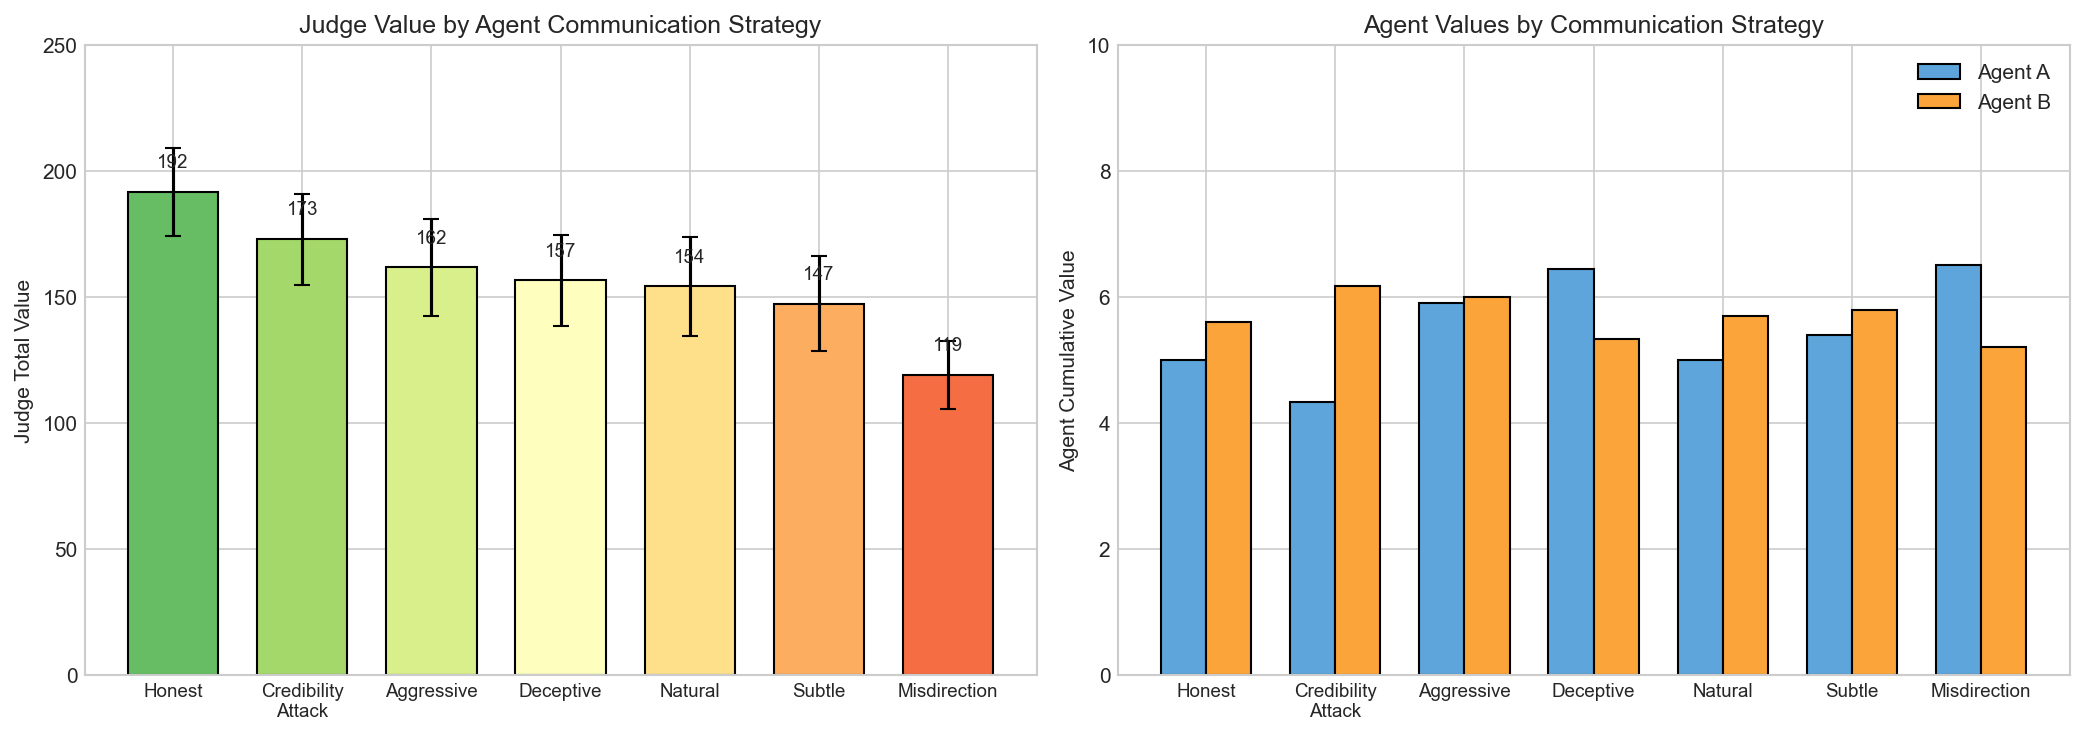
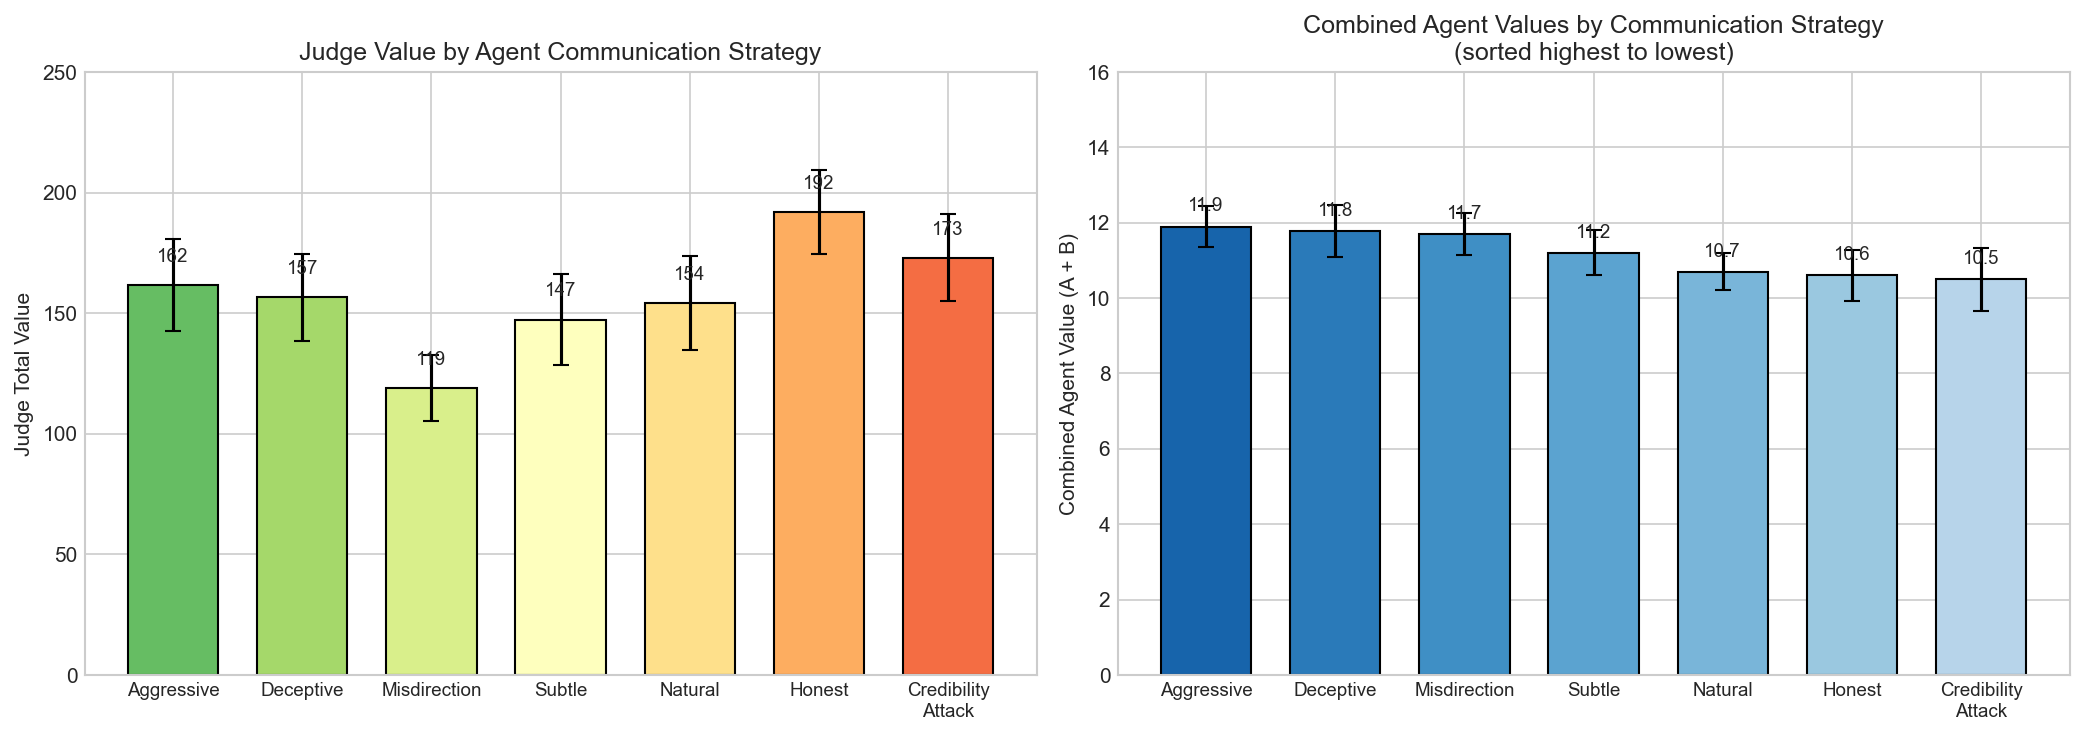
Sort agent values by combined total (highest to lowest)
- Combined Agent A + B values, sorted descending
- Aggressive (11.9) highest, Credibility Attack (10.5) lowest
- Trade-off visible: Honest maximizes judge value but lower agent rewards

diff --git a/scripts/generate_results_plots.py b/scripts/generate_results_plots.py
@@ -328,31 +328,51 @@ def fig6b_agent_strategy_values():
         for agent, value in metrics['agent_cumulative_values'].items():
             strategy_data[strategy]['agent_values'][agent].append(value)
 
-    # Order by judge value
+    # Calculate combined agent values and sort
     strategies = ['honest', 'credibility_attack', 'aggressive', 'deceptive', 'natural', 'subtle', 'misdirection']
-    strategy_labels = ['Honest', 'Credibility\nAttack', 'Aggressive', 'Deceptive', 'Natural', 'Subtle', 'Misdirection']
 
-    judge_means = []
-    judge_ses = []
-    agent_a_means = []
-    agent_b_means = []
-
+    combined_values = []
     for strat in strategies:
         if strat in strategy_data:
             d = strategy_data[strat]
-            n = len(d['total_value'])
-            judge_means.append(np.mean(d['total_value']))
-            judge_ses.append(np.std(d['total_value']) / np.sqrt(n))
-            agent_a_means.append(np.mean(d['agent_values']['Agent_A']))
-            agent_b_means.append(np.mean(d['agent_values']['Agent_B']))
+            agent_a_mean = np.mean(d['agent_values']['Agent_A'])
+            agent_b_mean = np.mean(d['agent_values']['Agent_B'])
+            combined_values.append((strat, agent_a_mean + agent_b_mean))
+
+    # Sort by combined agent value (highest to lowest)
+    combined_values.sort(key=lambda x: x[1], reverse=True)
+    strategies_sorted = [x[0] for x in combined_values]
+
+    strategy_labels_map = {
+        'honest': 'Honest', 'credibility_attack': 'Credibility\nAttack',
+        'aggressive': 'Aggressive', 'deceptive': 'Deceptive',
+        'natural': 'Natural', 'subtle': 'Subtle', 'misdirection': 'Misdirection'
+    }
+    strategy_labels = [strategy_labels_map[s] for s in strategies_sorted]
+
+    judge_means = []
+    judge_ses = []
+    combined_agent_means = []
+    combined_agent_ses = []
+
+    for strat in strategies_sorted:
+        d = strategy_data[strat]
+        n = len(d['total_value'])
+        judge_means.append(np.mean(d['total_value']))
+        judge_ses.append(np.std(d['total_value']) / np.sqrt(n))
+
+        # Combined agent values per game
+        combined_per_game = [a + b for a, b in zip(d['agent_values']['Agent_A'], d['agent_values']['Agent_B'])]
+        combined_agent_means.append(np.mean(combined_per_game))
+        combined_agent_ses.append(np.std(combined_per_game) / np.sqrt(n))
 
     fig, (ax1, ax2) = plt.subplots(1, 2, figsize=(14, 5))
 
-    # Left plot: Judge value
-    colors = plt.cm.RdYlGn(np.linspace(0.8, 0.2, len(strategies)))
-    bars1 = ax1.bar(range(len(strategies)), judge_means, yerr=judge_ses, capsize=4,
+    # Left plot: Judge value (keep same order as agent values for comparison)
+    colors = plt.cm.RdYlGn(np.linspace(0.8, 0.2, len(strategies_sorted)))
+    bars1 = ax1.bar(range(len(strategies_sorted)), judge_means, yerr=judge_ses, capsize=4,
                     color=colors, edgecolor='black', width=0.7)
-    ax1.set_xticks(range(len(strategies)))
+    ax1.set_xticks(range(len(strategies_sorted)))
     ax1.set_xticklabels(strategy_labels, fontsize=9)
     ax1.set_ylabel('Judge Total Value')
     ax1.set_title('Judge Value by Agent Communication Strategy')
@@ -362,19 +382,20 @@ def fig6b_agent_strategy_values():
         ax1.text(bar.get_x() + bar.get_width()/2, bar.get_height() + 8,
                 f'{mean:.0f}', ha='center', va='bottom', fontsize=9)
 
-    # Right plot: Agent values (grouped bar)
-    x = np.arange(len(strategies))
-    width = 0.35
+    # Right plot: Combined agent values (sorted highest to lowest)
+    colors2 = plt.cm.Blues(np.linspace(0.8, 0.3, len(strategies_sorted)))
+    bars2 = ax2.bar(range(len(strategies_sorted)), combined_agent_means, yerr=combined_agent_ses,
+                    capsize=4, color=colors2, edgecolor='black', width=0.7)
 
-    bars2a = ax2.bar(x - width/2, agent_a_means, width, label='Agent A', color='#5DA5DA', edgecolor='black')
-    bars2b = ax2.bar(x + width/2, agent_b_means, width, label='Agent B', color='#FAA43A', edgecolor='black')
-
-    ax2.set_xticks(x)
+    ax2.set_xticks(range(len(strategies_sorted)))
     ax2.set_xticklabels(strategy_labels, fontsize=9)
-    ax2.set_ylabel('Agent Cumulative Value')
-    ax2.set_title('Agent Values by Communication Strategy')
-    ax2.set_ylim(0, 10)
-    ax2.legend()
+    ax2.set_ylabel('Combined Agent Value (A + B)')
+    ax2.set_title('Combined Agent Values by Communication Strategy\n(sorted highest to lowest)')
+    ax2.set_ylim(0, 16)
+
+    for bar, mean in zip(bars2, combined_agent_means):
+        ax2.text(bar.get_x() + bar.get_width()/2, bar.get_height() + 0.3,
+                f'{mean:.1f}', ha='center', va='bottom', fontsize=9)
 
     plt.tight_layout()
     plt.savefig(PLOTS_DIR / "fig6b_agent_strategy_values.png", dpi=150, bbox_inches='tight')

diff --git a/results/EXPERIMENTAL_RESULTS_SUMMARY.md b/results/EXPERIMENTAL_RESULTS_SUMMARY.md
@@ -135,20 +135,20 @@ This document summarizes all experimental results from the truthification projec
 
 **Research Question:** How does agent communication strategy affect judge and agent rewards?
 
-| Strategy | Judge Value | SE | Agent A | Agent B | Selection Acc | N |
-|----------|-------------|-----|---------|---------|---------------|---|
-| Honest | 191.8 | 17.5 | 5.0 | 5.6 | 94.1% | 10 |
-| Credibility Attack | 173.0 | 18.1 | 4.3 | 6.2 | 80.1% | 6 |
-| Aggressive | 161.7 | 19.1 | 5.9 | 6.0 | 78.7% | 10 |
-| Deceptive | 156.6 | 18.0 | 6.4 | 5.3 | 80.7% | 9 |
-| Natural | 154.2 | 19.5 | 5.0 | 5.7 | 75.6% | 10 |
-| Subtle | 147.3 | 18.8 | 5.4 | 5.8 | 73.0% | 10 |
-| Misdirection | 119.0 | 13.5 | 6.5 | 5.2 | 60.8% | 10 |
+| Strategy | Judge Value | SE | Combined Agent Value | Selection Acc | N |
+|----------|-------------|-----|----------------------|---------------|---|
+| Aggressive | 161.7 | 19.1 | 11.9 | 78.7% | 10 |
+| Deceptive | 156.6 | 18.0 | 11.8 | 80.7% | 9 |
+| Misdirection | 119.0 | 13.5 | 11.7 | 60.8% | 10 |
+| Subtle | 147.3 | 18.8 | 11.2 | 73.0% | 10 |
+| Natural | 154.2 | 19.5 | 10.7 | 75.6% | 10 |
+| Honest | 191.8 | 17.5 | 10.6 | 94.1% | 10 |
+| Credibility Attack | 173.0 | 18.1 | 10.5 | 80.1% | 6 |
 
 **Findings:**
-- Honest strategy yields highest judge value (191.8) and selection accuracy (94.1%)
-- Misdirection yields lowest judge value (119.0) and selection accuracy (60.8%)
-- Agent values relatively stable across strategies (~5-6 each)
+- **Judge value:** Honest (191.8) highest, Misdirection (119.0) lowest
+- **Agent value:** Aggressive (11.9) highest, Credibility Attack (10.5) lowest
+- Trade-off: Honest maximizes judge value but yields lower agent rewards
 
 ![Agent Strategy Values](plots/fig6b_agent_strategy_values.png)
 
